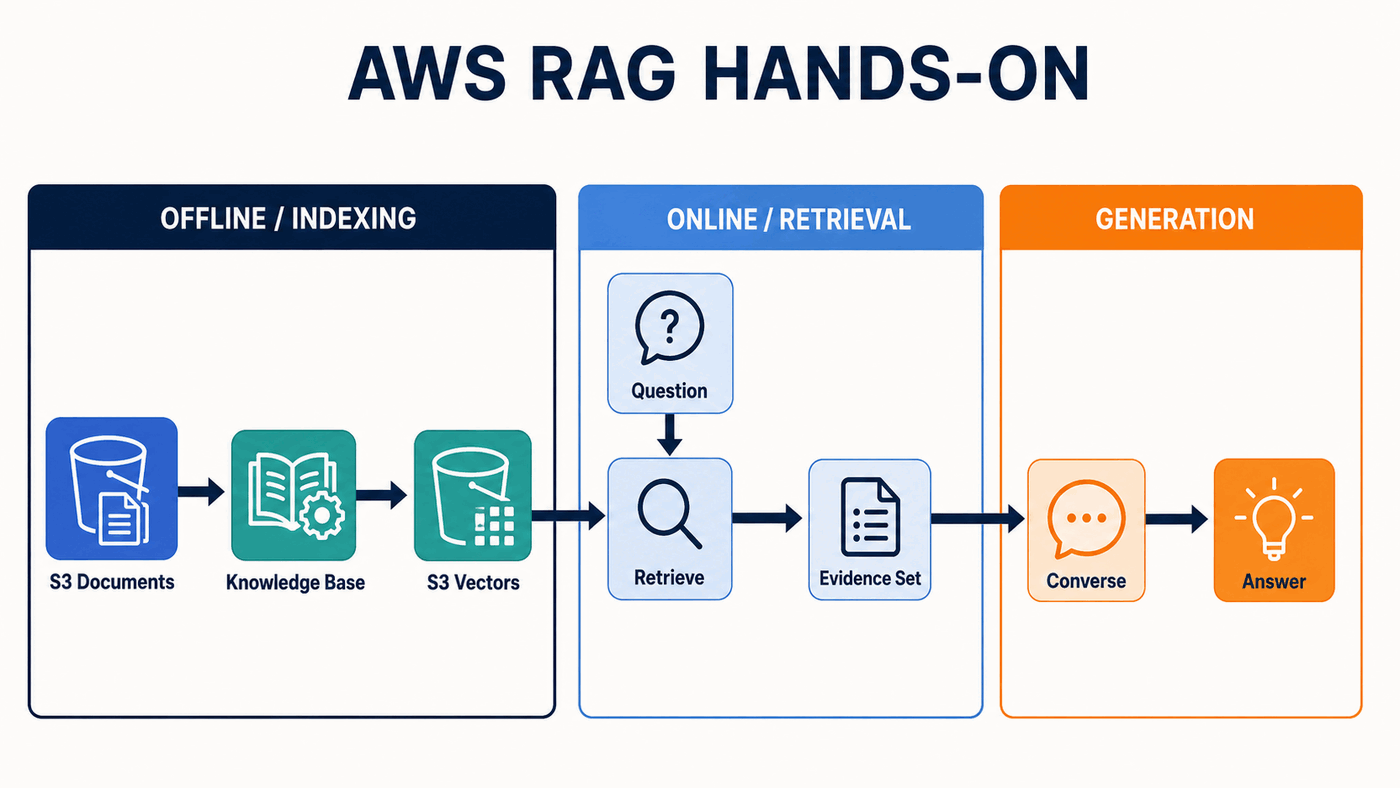
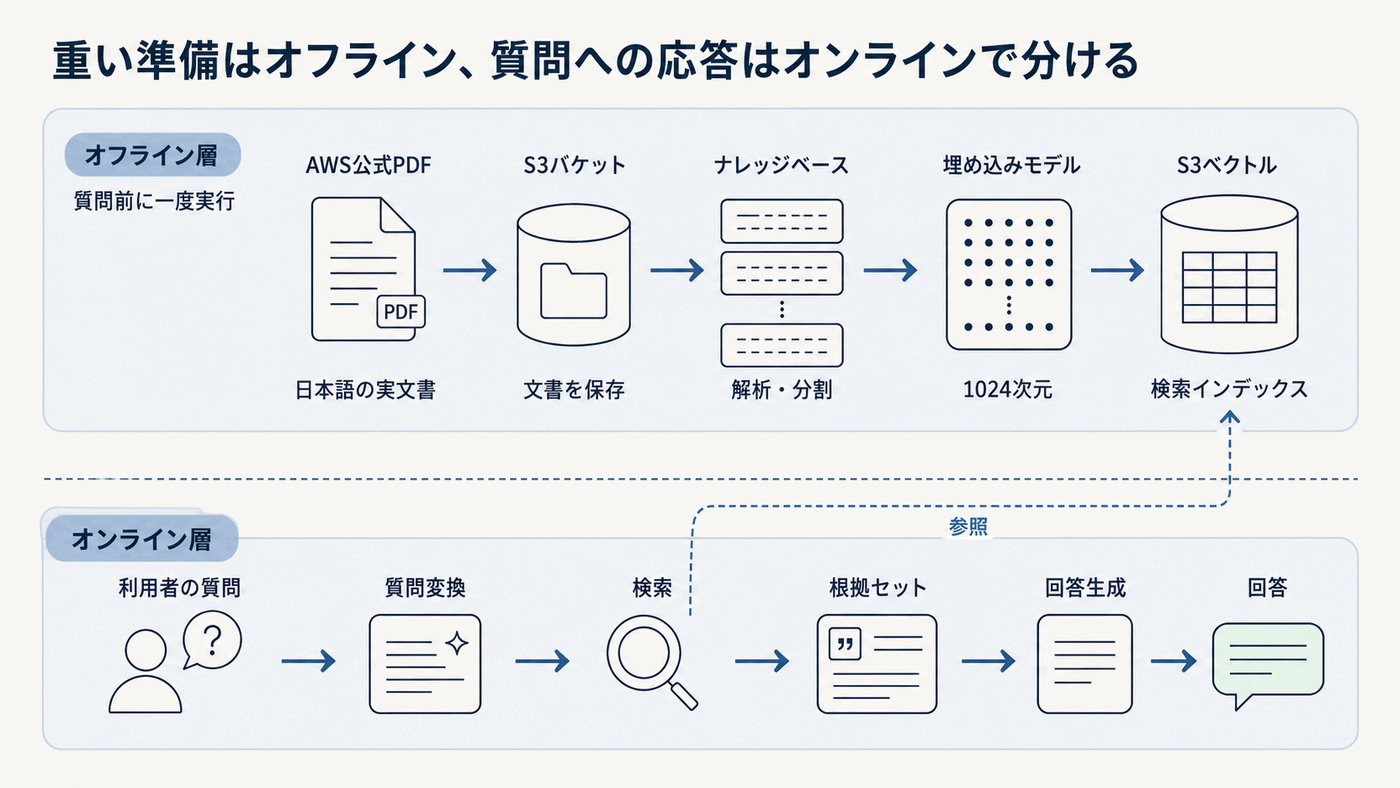
PDF準拠の日本語図版と配色に更新

diff --git a/handson/aws-rag/src/styles/workshop.css b/handson/aws-rag/src/styles/workshop.css
@@ -1,25 +1,27 @@
 :root {
-  --sl-color-accent-low: #fff3d6;
-  --sl-color-accent: #c56a00;
-  --sl-color-accent-high: #4a2700;
+  --sl-color-accent-low: #dce8f0;
+  --sl-color-accent: #5e7e96;
+  --sl-color-accent-high: #2b3a4a;
   --sl-font: "Noto Sans JP", "Hiragino Kaku Gothic ProN", "Yu Gothic", system-ui, sans-serif;
-  --workshop-navy: #18253a;
-  --workshop-blue: #0284c7;
-  --workshop-orange: #f59e0b;
-  --workshop-green: #16825d;
+  --workshop-navy: #2b3a4a;
+  --workshop-blue: #5e7e96;
+  --workshop-pale: #afc5d3;
+  --workshop-green: #779a8d;
+  --workshop-bg: #f7f6f1;
+  --workshop-line: #cbd9e3;
 }
 
 :root[data-theme='dark'] {
-  --sl-color-accent-low: #3c2805;
-  --sl-color-accent: #f7b84b;
-  --sl-color-accent-high: #fff0ca;
+  --sl-color-accent-low: #304553;
+  --sl-color-accent: #a8c0cf;
+  --sl-color-accent-high: #f7f6f1;
 }
 
 .hero {
   border-bottom: 1px solid var(--sl-color-gray-5);
   background:
-    radial-gradient(circle at 85% 20%, color-mix(in srgb, var(--workshop-blue) 20%, transparent), transparent 34%),
-    linear-gradient(135deg, color-mix(in srgb, var(--workshop-navy) 6%, transparent), transparent 60%);
+    linear-gradient(120deg, color-mix(in srgb, var(--workshop-blue) 8%, transparent), transparent 50%),
+    var(--workshop-bg);
 }
 
 .hero .tagline { max-width: 48rem; }
@@ -30,7 +32,7 @@
   border: 1px solid var(--sl-color-gray-5);
   border-radius: 0.75rem;
   overflow: hidden;
-  box-shadow: 0 8px 28px color-mix(in srgb, var(--workshop-navy) 8%, transparent);
+  box-shadow: 0 4px 14px color-mix(in srgb, var(--workshop-navy) 5%, transparent);
 }
 
 .workshop-panel > header {
@@ -44,12 +46,12 @@
 
 .workshop-panel h2 { margin: 0; color: inherit; font-size: 1.25rem; }
 .workshop-panel .eyebrow { display: block; margin-bottom: 0.15rem; color: #bfdbfe; font-size: 0.72rem; font-weight: 800; letter-spacing: 0.12em; }
-.terminal-mark { display: grid; place-items: center; width: 2.3rem; height: 2.3rem; flex: 0 0 auto; border-radius: 0.5rem; color: var(--workshop-navy); background: var(--workshop-orange); font: 800 1.2rem/1 ui-monospace, monospace; }
+.terminal-mark { display: grid; place-items: center; width: 2.3rem; height: 2.3rem; flex: 0 0 auto; border-radius: 0.5rem; color: var(--workshop-navy); background: var(--workshop-pale); font: 800 1.2rem/1 ui-monospace, monospace; }
 .panel-body { padding: 0.25rem 1.25rem 1.3rem; }
 
-.command-frame { margin-block: 1.25rem; border: 1px solid var(--sl-color-gray-5); border-radius: 0.65rem; overflow: hidden; background: #0d1726; }
-.command-title { display: flex; align-items: center; gap: 0.55rem; padding: 0.6rem 0.8rem; color: #dbeafe; background: #18253a; font-size: 0.82rem; }
-.command-title > span { color: var(--workshop-orange); font-family: ui-monospace, monospace; }
+.command-frame { margin-block: 1.25rem; border: 1px solid var(--sl-color-gray-5); border-radius: 0.65rem; overflow: hidden; background: #243746; }
+.command-title { display: flex; align-items: center; gap: 0.55rem; padding: 0.6rem 0.8rem; color: #edf3f6; background: var(--workshop-navy); font-size: 0.82rem; }
+.command-title > span { color: var(--workshop-pale); font-family: ui-monospace, monospace; }
 .command-title small { margin-left: auto; color: #94a3b8; }
 .command-body .expressive-code { margin: 0; }
 .command-body .frame { border: 0 !important; border-radius: 0 !important; box-shadow: none !important; }
@@ -85,8 +87,8 @@
   padding: 1.15rem;
   border: 1px solid color-mix(in srgb, var(--workshop-blue) 35%, var(--sl-color-gray-5));
   border-radius: 0.9rem;
-  background: color-mix(in srgb, var(--workshop-blue) 5%, var(--sl-color-bg));
-  box-shadow: 0 8px 28px color-mix(in srgb, var(--workshop-navy) 7%, transparent);
+  background: color-mix(in srgb, var(--workshop-blue) 5%, var(--workshop-bg));
+  box-shadow: 0 4px 14px color-mix(in srgb, var(--workshop-navy) 5%, transparent);
 }
 
 .build-progress-heading {
